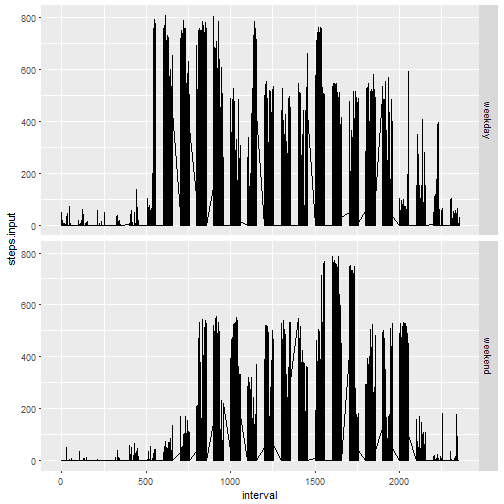
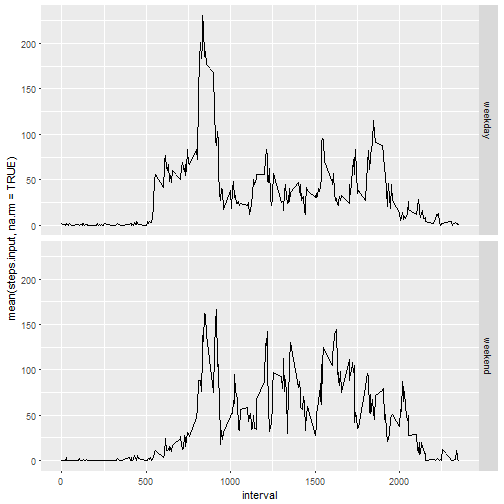
Add files via upload

diff --git a/PA1_template.html b/PA1_template.html
@@ -294,10 +294,11 @@ ggplot(total.day.steps.input, aes(x = date, y = `sum(steps.input, na.rm = TRUE)`
 
 <pre><code class="r">activity.weekday &lt;- cbind(activity.input,weekdays(as.Date(activity.input$date)))
 activity.weekday$weekday &lt;- ifelse(activity.weekday$`weekdays(as.Date(activity.input$date))` %in% c(&quot;poniedziałek&quot;, &quot;wtorek&quot;, &quot;środa&quot;, &quot;czwartek&quot;, &quot;piątek&quot;), &quot;weekday&quot;, &quot;weekend&quot;)
-ggplot(activity.weekday, aes(interval, steps.input)) + geom_line(linetype=&quot;solid&quot;,size = 0.5) + facet_grid(weekday ~.) 
+avg.activity.weekday &lt;- activity.weekday %&gt;% group_by(interval, weekday) %&gt;% summarise(mean(steps.input, na.rm = TRUE))
+ggplot(avg.activity.weekday, aes(interval, `mean(steps.input, na.rm = TRUE)`)) + geom_line(linetype=&quot;solid&quot;,size = 0.5) + facet_grid(weekday ~.) 
 </code></pre>
 
[2 lines of base64/hex data omitted]
 
 </body>
 
